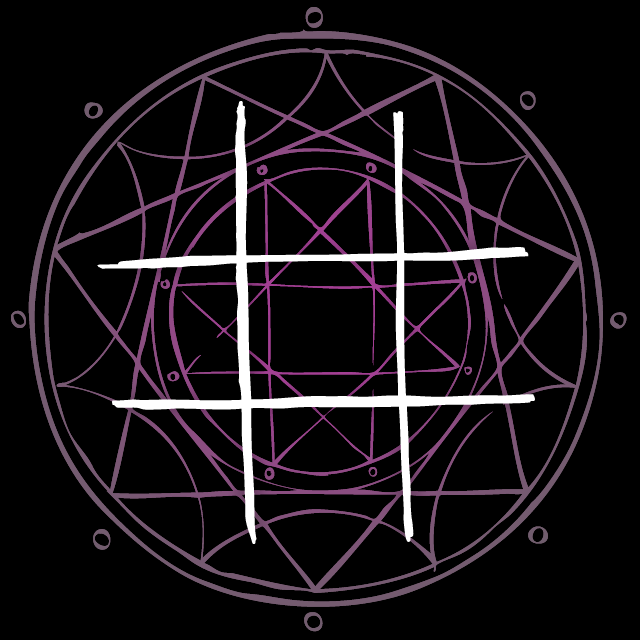
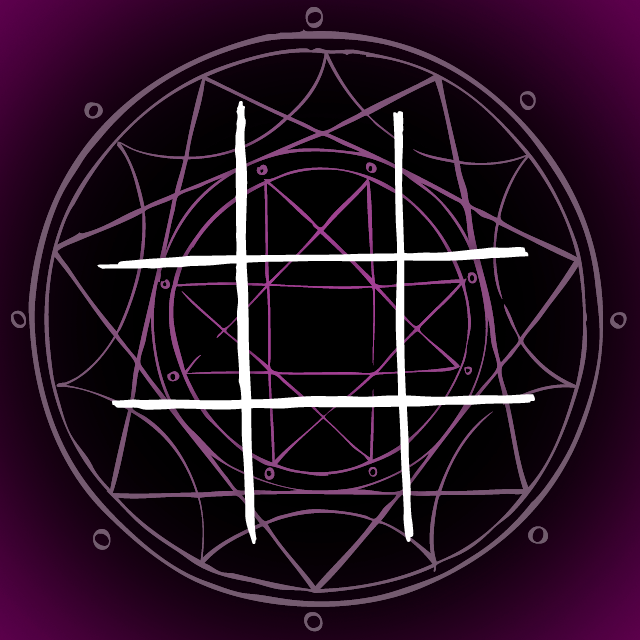
Added a title screen.

Changed region(s): [[0.0, 0.0, 1.0, 1.0]]

diff --git a/app/assets/stylesheets/style.css b/app/assets/stylesheets/style.css
@@ -1,7 +1,40 @@
+body {
+	background-color:black;
+}
+
 #layout {
 	position:relative;
 	width:960px;
 	height:640px;
+	margin-left:auto;
+	margin-right:auto;
+	top:30px;
+}
+
+/******** title screen **********/
+
+#title_screen {
+	background-image:url('title_screen.png');	
+	width:960px;
+	height:640px;
+}
+
+#one_player {
+	position:absolute;
+	width:60px;
+	height:35px;
+	top:545px;
+	left:732px;
+	z-index:1;
+}
+
+#two_players {
+	position:absolute;
+	width:60px;
+	height:35px;
+	top:545px;
+	left:808px;
+	z-index:1;
 }
 
 /******** character select *********/
@@ -52,9 +85,6 @@ a.cyan_player:hover {
 	position:absolute;
 	left:411px;
 }
-
-
-
 
 /*********** board layout ***********/
 
